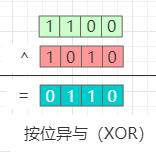
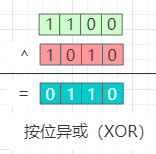
替换有错误的图片，调整排版 (#342)

diff --git a/openresty/bit_operations_review.md b/openresty/bit_operations_review.md
@@ -46,32 +46,34 @@
 
 运算规则：**相同则为 0，相异则为 1。**
 
-辅助记忆：两个和尚做 **相同** 的事情（都去或者都不去）没水吃，**必须不同** 才有水吃。
+辅助记忆：两个和尚做 **相同** 的事情（都去只顾着吵架了或者都不去）没水吃，**必须不同** 才有水吃。
 
 ![](../images/bit_bxor.png)
 
 ### 2.4，**按位右移**（right shift）
+运算规则：所有位整体向 **右移**  n 位，**左侧空出来的位补 0**。
 
-![](../images/bit_rshift.png)
+辅助记忆：把一根木条按单位锯成一堆小方块，每锯掉一块，向右移动 1 个单位（bit）。
 
+示例：把二进制数 100110 向右移 3 位。
 ```
 100110 >> 3 = 000100
 ```
 
-
-把二进制数 100110 向右移 3 位，**左侧空出来的位补 0**。
-辅助记忆：把一根木条按单位锯成一堆小方块，每锯掉一块，向右移动 1 个单位（bit）。
+![](../images/bit_rshift.png)
 
 > Tips：向**右移一位**，相当于将此数 **除以 2**（原数变小了）。
 
 ### 2.5，**按位左移**（left shift）
+运算规则：所有位整体向 **左移** n 位，**右侧空出来的位补 0**。
 
-![](../images/bit_lshift.png)
+辅助记忆：贪吃蛇游戏，只是每次都把小方块放在最后边。
 ```
 100110 << 3 = 110000
 ```
-把二进制数 100110 向左移 3 位，**右侧空出来的位补 0**。
-辅助记忆：贪吃蛇游戏，只是每次都把小方块放在最后边。
+示例：把二进制数 100110 向左移 3 位。
+
+![](../images/bit_lshift.png)
 
 > Tips：向**左移一位**，相当于将此数 **乘以 2**（原数变大了）。
 
